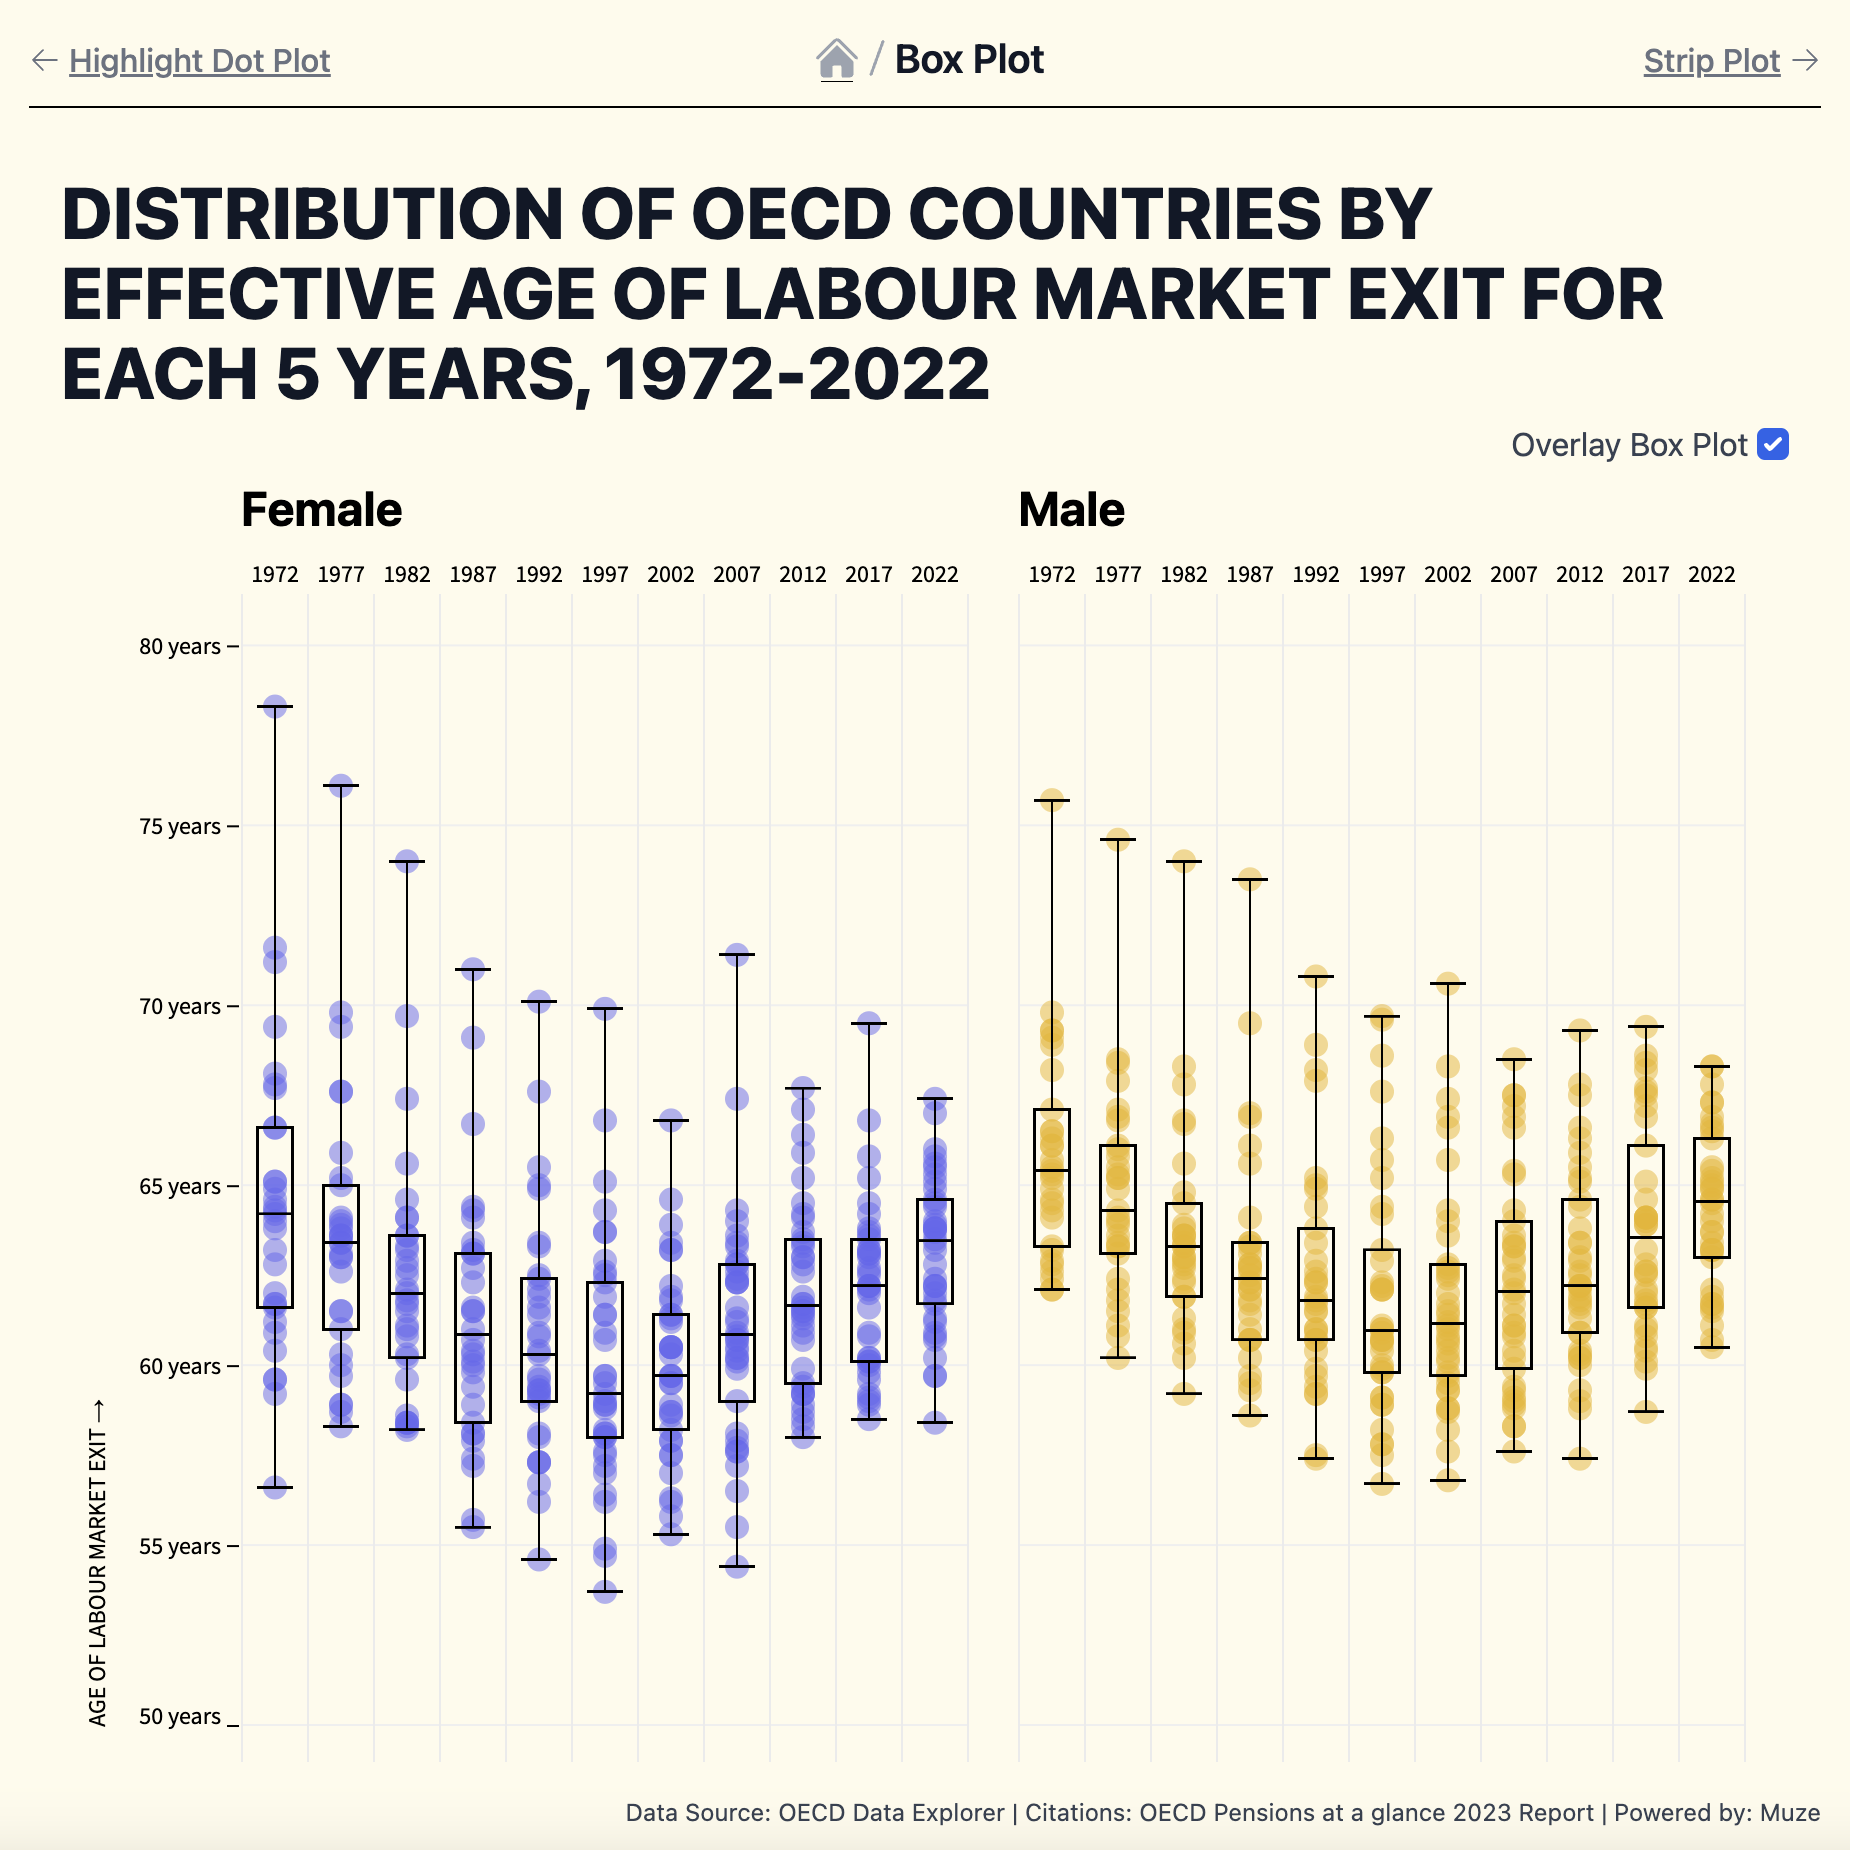
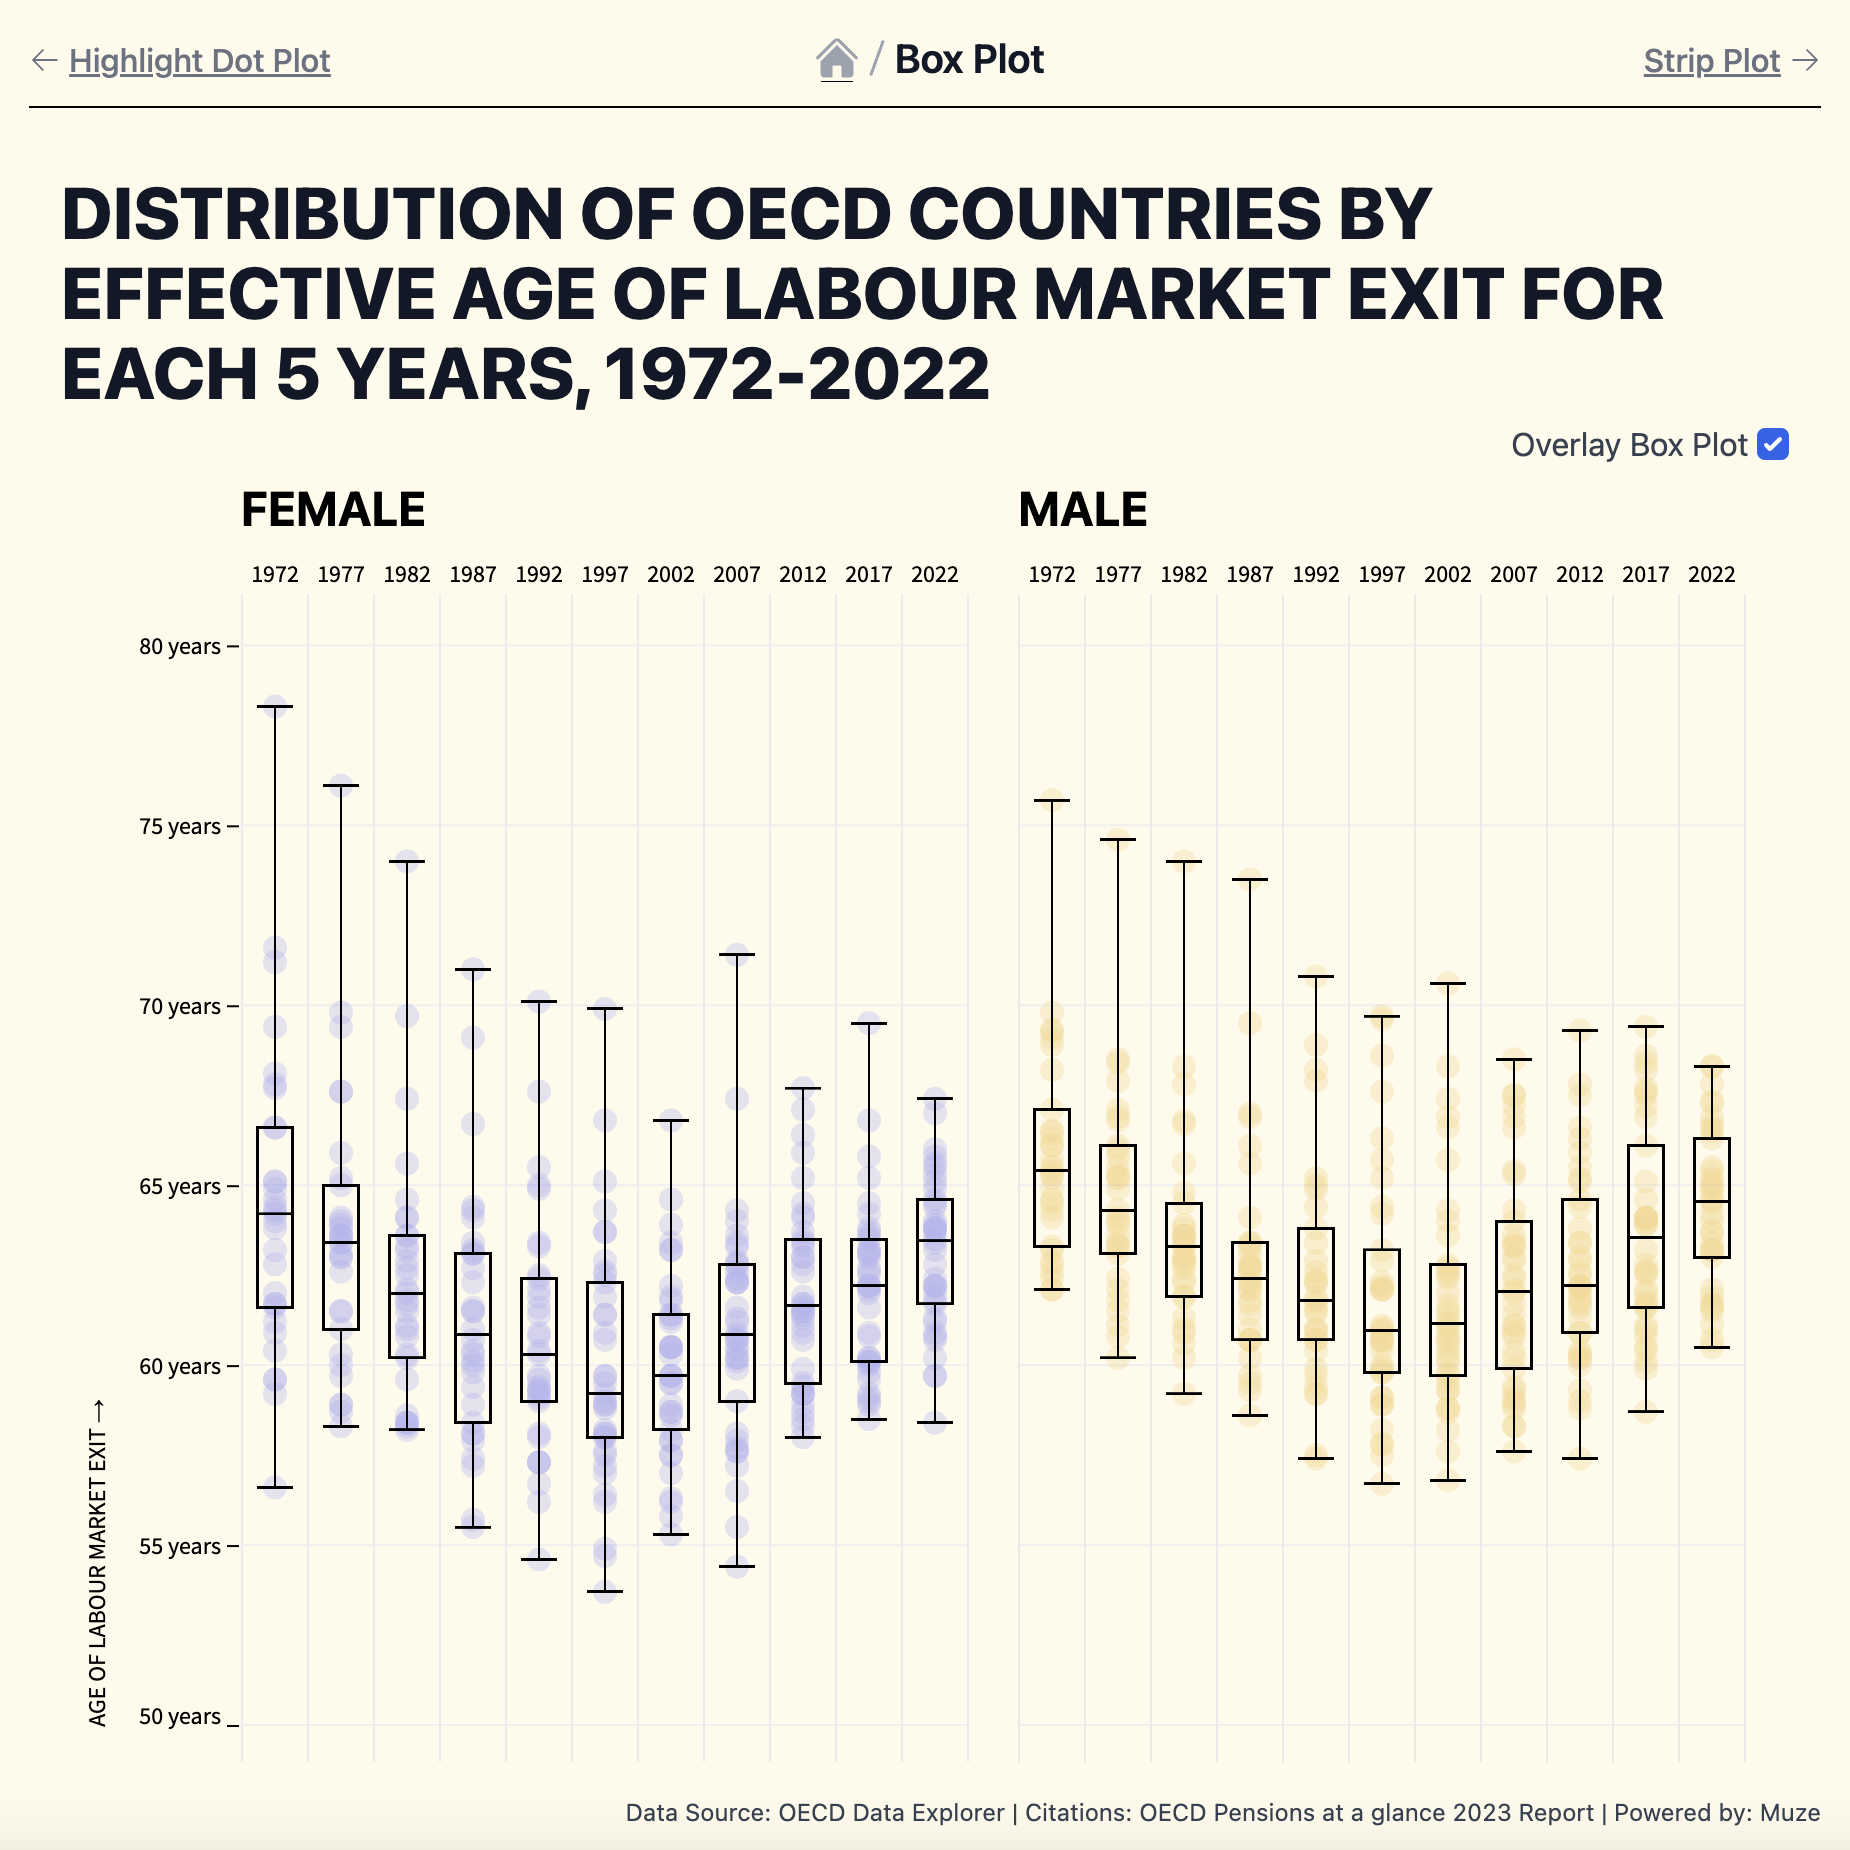
Decrease point opacity when box plot overlay is turned on

diff --git a/src/lib/boxplot.svelte b/src/lib/boxplot.svelte
@@ -473,12 +473,14 @@
 		class="not-prose grow-[545]"
 		style:--boxOpacity={boxOpacity}
 		style:--medianOpacity={1 - boxOpacity}
+		style:--pointOpacity={isAdvanced ? 0.7 : 1}
 		bind:this={femaleViz}
 	></div>
 	<div
 		class="not-prose grow-[455]"
 		style:--boxOpacity={boxOpacity}
 		style:--medianOpacity={1 - boxOpacity}
+		style:--pointOpacity={isAdvanced ? 0.7 : 1}
 		bind:this={maleViz}
 	></div>
 </div>
@@ -542,5 +544,9 @@
 	div.boxplot :global(.muze-layer-bar) {
 		stroke: #000000 !important;
 		opacity: var(--boxOpacity);
+	}
+
+	div.boxplot :global(.muze-layer-point) {
+		opacity: var(--pointOpacity) !important;
 	}
 </style>
